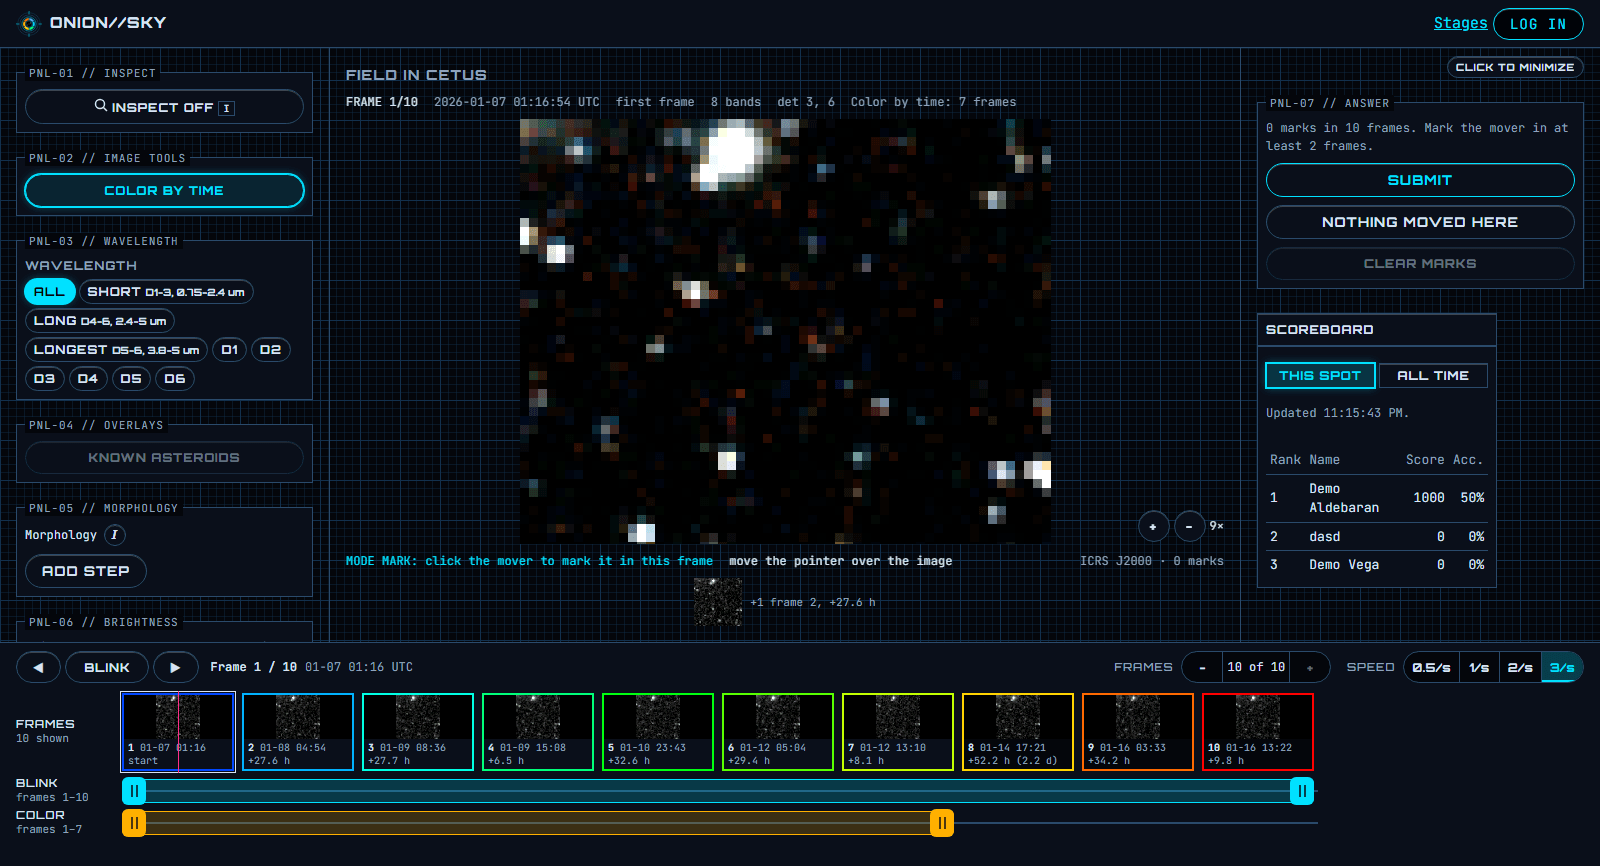
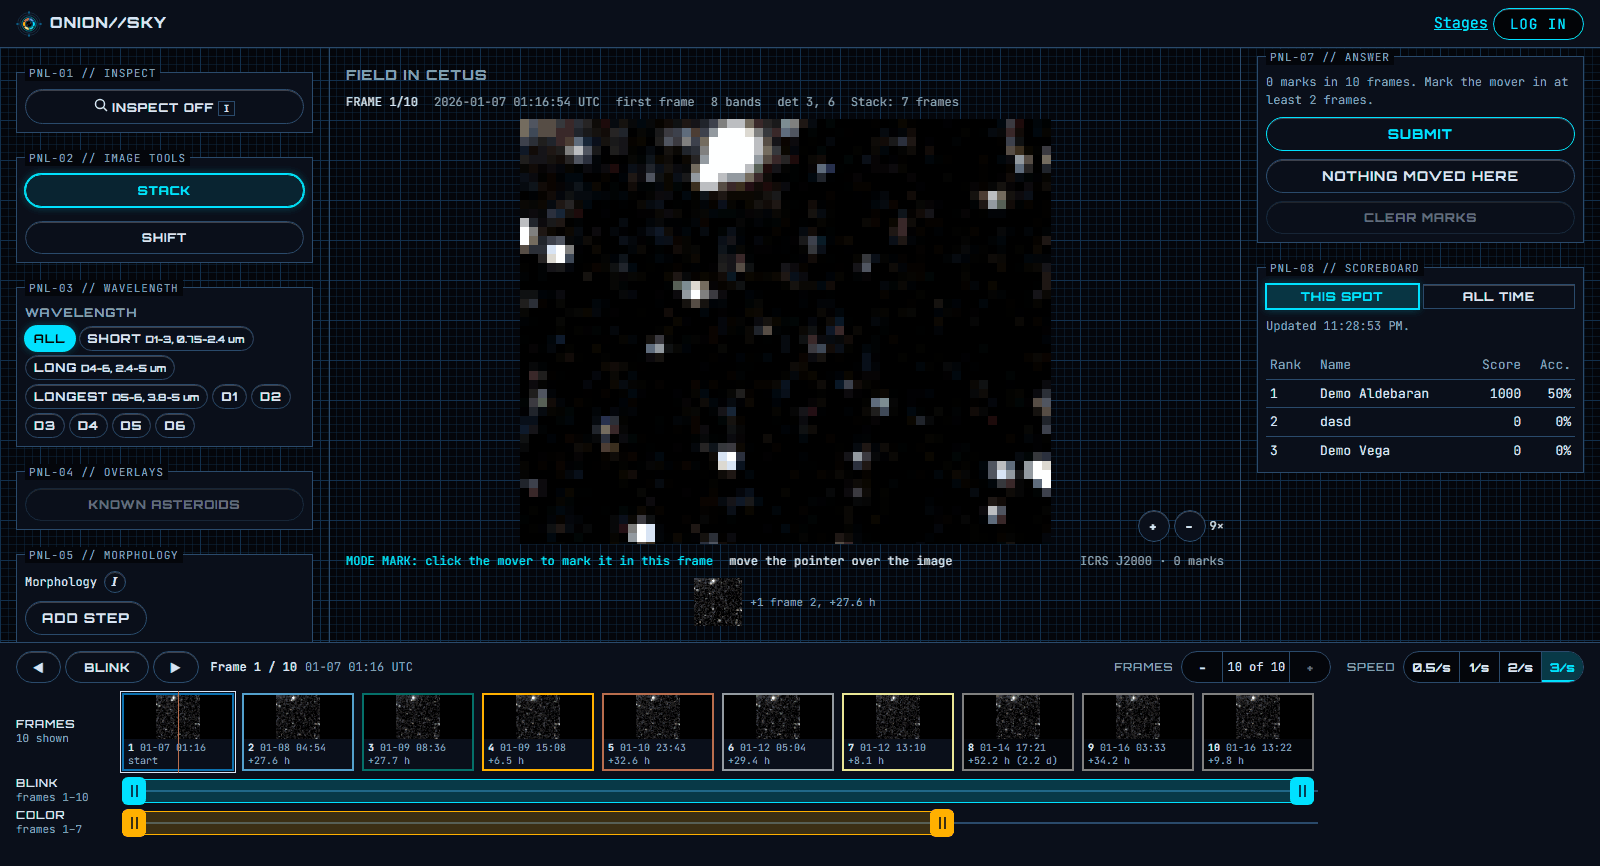
Retake README screenshots from the current live site
The earlier screenshots were taken from an out-of-date production build. These show the current tools (Stack, Shift) and the scoreboard panel layout.

diff --git a/README.md b/README.md
@@ -24,7 +24,7 @@ Planet X would have.
 *The sky map. Pick any patch of the whole sky to search. Green glows show where other players have already looked.*
 
 ![Game page showing ten frames of one sky patch](docs/images/game.png)
-*The game. Blink through the frames, colour them by time or stack them, then mark the mover and submit.*
+*The game. Blink through the frames, stack them or shift them, then mark the mover and submit.*
 
 ## Play: how the web game works
 
